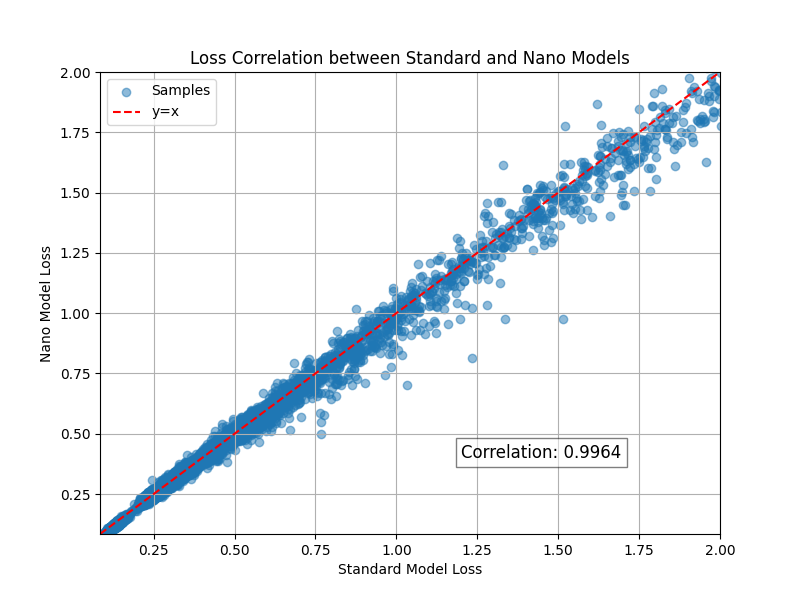
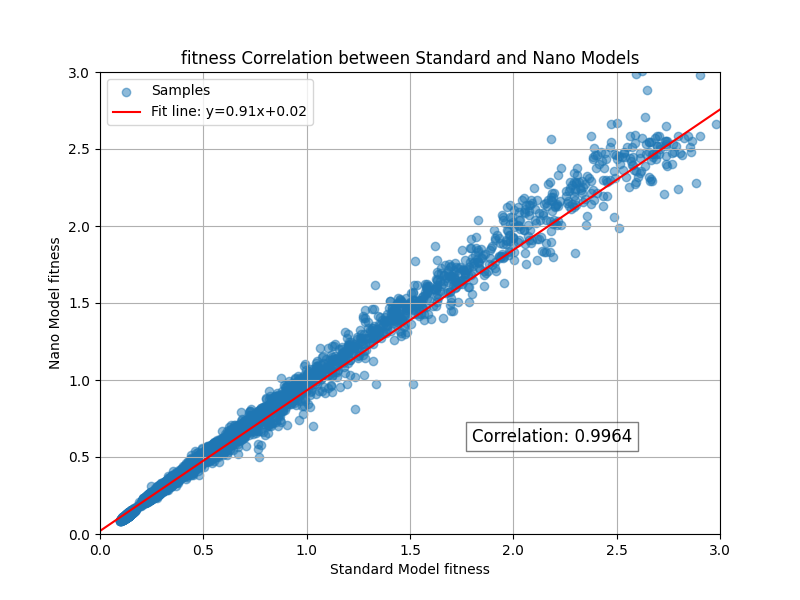
修改了测试的绘图代码

diff --git a/src/test_loss.py b/src/test_loss.py
@@ -3,8 +3,8 @@
 
 需要做什么：
 1. 可以用很高的温度加上某个模型生成数据集。
-2. 证明nano和standard模型它们的loss具有相关性。用其中一个模型生成的音乐在另一个模型上的loss也不高。
-3. 纯随机变异，验证loss确实发生的升高。
+2. 证明nano和standard模型它们的fitness具有相关性。用其中一个模型生成的音乐在另一个模型上的fitness也不高。
+3. 纯随机变异，验证fitness确实发生的升高。
 4. 绘制nano percentage vs standard percentage 热力图。我们期望这个矩阵是对角占优的，相关系数趋近于1。
 """
 
@@ -15,6 +15,7 @@ import numpy as np
 import tqdm
 import matplotlib.pyplot as plt
 from transformer import GPTMusicEvaluator
+from scipy.stats import linregress
 
 model_path_standard = "./transformer/checkpoints_gpt/music_gpt_standard.pth"
 model_path_nano = "./transformer/checkpoints_gpt/music_gpt_nano_datav3_best.pth"
@@ -35,17 +36,17 @@ def generate_samples(evaluator:GPTMusicEvaluator, count=1, temperature = 1.0, pr
         results.append(generated)
     return np.array(results)
 
-def batch_evaluate_loss(evaluators:list[GPTMusicEvaluator], sequences):
+def batch_evaluate_fitness(evaluators:list[GPTMusicEvaluator], sequences):
     """
     evaluators: list of GPTMusicEvaluator
     sequences: list of token sequences
-    return: loss_matrix, shape (len(evaluators), len(sequences))
+    return: fitness_matrix, shape (len(evaluators), len(sequences))
     """
-    loss_matrix = np.zeros((len(evaluators), len(sequences)))
+    fitness_matrix = np.zeros((len(evaluators), len(sequences)))
     sequences=np.array(sequences)
-    for i, evaluator in tqdm.tqdm(enumerate(evaluators), total=len(evaluators), desc="Evaluating loss"):
-        loss_matrix[i] = evaluator.evaluate(sequences)
-    return loss_matrix
+    for i, evaluator in tqdm.tqdm(enumerate(evaluators), total=len(evaluators), desc="Evaluating fitness"):
+        fitness_matrix[i] = evaluator.evaluate(sequences)
+    return fitness_matrix
 
 def noise_mutation(sequences, mutation_rate=0.1, mutation_range=6):
     mutate_delta= np.random.randint(-mutation_range, mutation_range+1, size=sequences.shape)
@@ -57,14 +58,15 @@ def random_sequence(count=1, length=32):
     return np.random.randint(2, 130, size=(count, length))
 
 def main():
-    evaluator_standard=GPTMusicEvaluator(model_path=model_path_standard, device=device)
-    evaluator_nano=GPTMusicEvaluator(model_path=model_path_nano, device=device)
+    save_path = "./example_outputs/test_loss/transformer_generated_samples.npz"
+    save_path_fitness = "./example_outputs/test_loss/transformer_loss_matrix.npz"
+    if not os.path.exists(model_path_standard) or not os.path.exists(model_path_nano):
+        evaluator_standard=GPTMusicEvaluator(model_path=model_path_standard, device=device)
+        evaluator_nano=GPTMusicEvaluator(model_path=model_path_nano, device=device)
     os.makedirs("./example_outputs/test_loss", exist_ok=True)
     
     # 1. 生成或读取样本
-    use_saved_data = True
-    save_path = "./example_outputs/test_loss/transformer_generated_samples.npz"
-    if use_saved_data and os.path.exists(save_path):
+    if os.path.exists(save_path):
         data = np.load(save_path, allow_pickle=True)
         all_samples = data["arr_0"].item()
         print("Loaded existing samples from transformer_generated_samples.npz")
@@ -79,12 +81,10 @@ def main():
         np.savez(save_path, all_samples)
         print("Saved generated samples to transformer_generated_samples.npz")
     
-    # 2. 评估loss
-    use_saved_data = True
-    save_path_loss = "./example_outputs/test_loss/transformer_loss_matrix.npz"
-    if use_saved_data and os.path.exists(save_path_loss):
-        loss_matrix = np.load(save_path_loss)["loss_matrix"]
-        print("Loss matrix already exists, skipping evaluation.")
+    # 2. 评估fitness
+    if os.path.exists(save_path_fitness):
+        fitness_matrix = np.load(save_path_fitness)["loss_matrix"]
+        print("fitness matrix already exists, skipping evaluation.")
     else:
         all_samples_concatenated = np.concatenate(list(all_samples.values()), axis=0)
         all_samples_concatenated = np.concatenate([
@@ -94,32 +94,133 @@ def main():
             noise_mutation(all_samples_concatenated, mutation_rate=0.9), 
             random_sequence(len(all_samples_concatenated))
         ], axis=0)
-        loss_matrix = batch_evaluate_loss(
+        fitness_matrix = batch_evaluate_fitness(
             evaluators=[evaluator_standard, evaluator_nano],
             sequences=all_samples_concatenated)
-        np.savez(save_path_loss, loss_matrix=loss_matrix)
-        print("Saved loss matrix to transformer_loss_matrix.npz")
-    # 3. 绘制结果
+        np.savez(save_path_fitness, loss_matrix=fitness_matrix)
+        print("Saved fitness matrix to transformer_loss_matrix.npz")
+    # 3. 绘制Nano与Standard模型fitness的相关性图
     x_min=0
-    x_max=2
+    x_max=3
     plt.figure(figsize=(8, 6))
-    # plt.hist2d(loss_matrix[0], loss_matrix[1], bins=100, range=[[x_min, x_max], [loss_matrix.min(), x_max]], cmap='Blues')
+    # plt.hist2d(fitness_matrix[0], fitness_matrix[1], bins=100, range=[[x_min, x_max], [fitness_matrix.min(), x_max]], cmap='Blues')
     # plt.colorbar(label='Counts')
-    plt.scatter(loss_matrix[0], loss_matrix[1], alpha=0.5, label='Samples')
-    plt.plot([loss_matrix.min(), x_max], [loss_matrix.min(), x_max], 'r--', label='y=x')
-    r=np.corrcoef(loss_matrix[0], loss_matrix[1])[0, 1]
+    plt.scatter(fitness_matrix[0], fitness_matrix[1], alpha=0.5, label='Samples')
+    k, b, r, p, std_err = linreg_result = linregress(fitness_matrix[0], fitness_matrix[1])
+    plt.plot([x_min, x_max], [k*x_min + b, k*x_max + b], color='red', label=f'Fit line: y={k:.2f}x+{b:.2f}')
     plt.text(x_max*0.6, x_max*0.2, f"Correlation: {r:.4f}", fontsize=12, bbox=dict(facecolor='white', alpha=0.5))
-    print(f"Correlation coefficient between Standard and Nano model losses: {r:.4f}")
+    print(f"Correlation coefficient between Standard and Nano model fitnesses: {r:.4f}")
 
-    plt.xlim(loss_matrix.min(), x_max)
-    plt.ylim(loss_matrix.min(), x_max)
-    plt.xlabel("Standard Model Loss")
-    plt.ylabel("Nano Model Loss")
-    plt.title("Loss Correlation between Standard and Nano Models")
+    plt.xlim(x_min, x_max)
+    plt.ylim(x_min, x_max)
+    plt.xlabel("Standard Model fitness")
+    plt.ylabel("Nano Model fitness")
+    plt.title("fitness Correlation between Standard and Nano Models")
     plt.legend()
     plt.grid(True)
     plt.savefig("./example_outputs/test_loss/transformer_loss_correlation.png")
     plt.show()
+    plt.close()
+
+    # 绘制分位数热力图
+    # 获取每个数据的分位数
+    percentage_standards = np.array([np.mean(fitness_matrix[0] <= x) for x in fitness_matrix[0]])
+    percentage_nanos = np.array([np.mean(fitness_matrix[1] <= x) for x in fitness_matrix[1]])
+    plt.figure(figsize=(8, 6))
+    plt.hist2d(percentage_standards, percentage_nanos, bins=10, range=[[0, 1], [0, 1]], cmap='Blues')
+    # 向对角线和次对角线上每一个格子内写上该格子内数据总数的百分比
+    for i in range(10):
+        for j in range(10):
+            if abs(i - j) > 1:
+                continue
+            count=np.sum(
+                (percentage_standards >= i/10) & (percentage_standards < (i+1)/10) &
+                (percentage_nanos >= j/10) & (percentage_nanos < (j+1)/10)
+            )
+            plt.text(
+                i/10 + 0.05, j/10 + 0.05, 
+                f"{count/len(percentage_standards)*100:.1f}%", 
+                color='white' if i==j else 'black', 
+                fontsize=12, ha='center', va='center'
+            )
+
+    # r= np.corrcoef(percentage_standards, percentage_nanos)[0,1]
+    # plt.text(0.6,0.2, f"Correlation: {r:.4f}", fontsize=12, bbox=dict(facecolor='white', alpha=0.5))
+    plt.colorbar(label='Counts')
+    plt.xlabel("Standard Model fitness percentage")
+    plt.ylabel("Nano Model fitness percentage")
+    plt.xlim(0, 1)
+    plt.ylim(0, 1)
+    plt.title("fitness Percentage Correlation between Standard and Nano Models")
+    plt.tight_layout()
+    plt.savefig("./example_outputs/test_loss/transformer_loss_heatmap.png")
+    plt.show()
+    plt.close()
+
+    # 4. 绘制两个模型的fitness随温度变化图
+    all_samples_temperatures = np.concatenate([[temp]*sample.shape[0] for temp,sample in all_samples.items()])
+    all_samples_temperatures = np.concatenate([all_samples_temperatures, all_samples_temperatures, all_samples_temperatures, all_samples_temperatures, [np.inf]*len(all_samples_temperatures)])
+    fitnesses_at_temperatures = {temp: fitness_matrix[:,all_samples_temperatures == temp] for temp in all_samples.keys() if temp<=2}
+    fitnesses_at_temperatures[np.inf] = fitness_matrix[:, np.isinf(all_samples_temperatures)]
+    mean_fitnesses_at_temperatures = {temp: fitnesses.mean(axis=1) for temp, fitnesses in fitnesses_at_temperatures.items()}
+
+    temps = sorted(mean_fitnesses_at_temperatures.keys())
+    standard_means = [mean_fitnesses_at_temperatures[temp][0] for temp in temps]
+    nano_means = [mean_fitnesses_at_temperatures[temp][1] for temp in temps]
+    standard_means_std = [fitnesses_at_temperatures[temp][0].std()/np.sqrt(len(fitnesses_at_temperatures[temp][0])-1) for temp in temps]
+    nano_means_std = [fitnesses_at_temperatures[temp][1].std()/np.sqrt(len(fitnesses_at_temperatures[temp][1])-1) for temp in temps]
+
+    # 绘制柱状图
+    plt.figure(figsize=(12, 6))
+    bar_width=0.4
+    x_positions=np.arange(len(temps))
+    colors=['#1f77b4', '#ff7f0e']
+    bars1 = plt.bar(x_positions - bar_width/2, standard_means, width=bar_width, color=colors[0], label='Standard Model')
+    bars2 = plt.bar(x_positions + bar_width/2, nano_means, width=bar_width, color=colors[1], label='Nano Model')
+    for bar in bars1 + bars2:
+        height = bar.get_height()
+        plt.text(bar.get_x() + bar.get_width()/2, height, f'{height:.2f}', ha='center', va='bottom', fontsize=5)
+    plt.xlabel('TEMPERATURE')
+    plt.ylabel('Average fitness')
+    plt.title('Average fitness vs Temperature for Standard and Nano Models')
+    plt.xticks(x_positions, [f"Temp={temp:.1f}" if np.isfinite(temp) else "random" for temp in temps], rotation=45)
+    plt.legend()
+    plt.grid(axis='y')
+    plt.tight_layout()
+    plt.savefig("./example_outputs/test_loss/transformer_loss_vs_temperature.png")
+    plt.show()
+    plt.close()
+
+    # 绘制带有误差的折线图
+    plt.figure(figsize=(12, 6))
+    x_positions=np.arange(len(temps))
+    plt.errorbar(
+        x_positions,
+        standard_means,
+        yerr=standard_means_std,
+        label='Standard Model',
+        capsize=5,
+        fmt='-+'
+    )
+    plt.errorbar(
+        x_positions,
+        nano_means,
+        yerr=nano_means_std,
+        label='Nano Model',
+        capsize=5,
+        fmt='-x'
+    )
+    plt.xlabel('TEMPERATURE')
+    plt.ylabel('Average fitness')
+    plt.title('Average fitness vs Temperature for Standard and Nano Models')
+    plt.xticks(x_positions, [f"Temp={temp:.1f}" if np.isfinite(temp) else "random" for temp in temps], rotation=45)
+    plt.xlim(-1, len(temps))
+    plt.legend()
+    plt.grid(axis='y')
+    plt.tight_layout()
+    plt.savefig("./example_outputs/test_loss/transformer_loss_vs_temperature_with_errorbar.png")
+    plt.show()
+    plt.close()
     
 
 if __name__ == "__main__":
